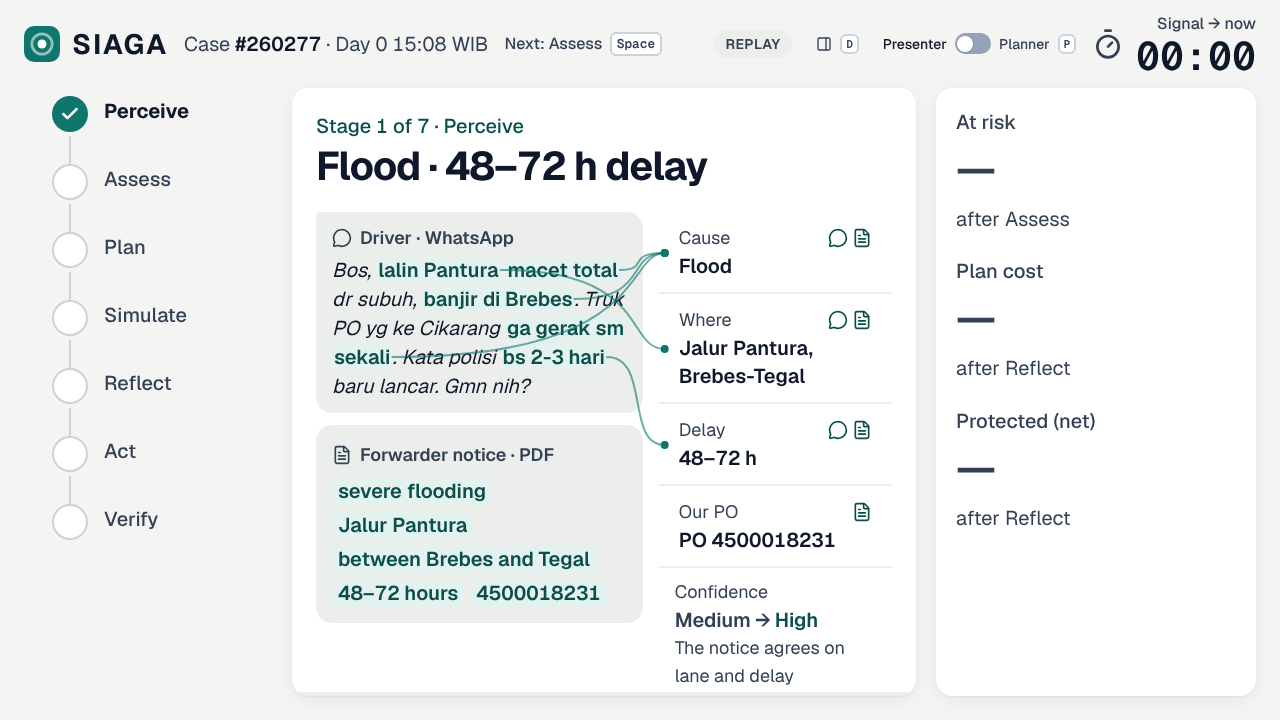
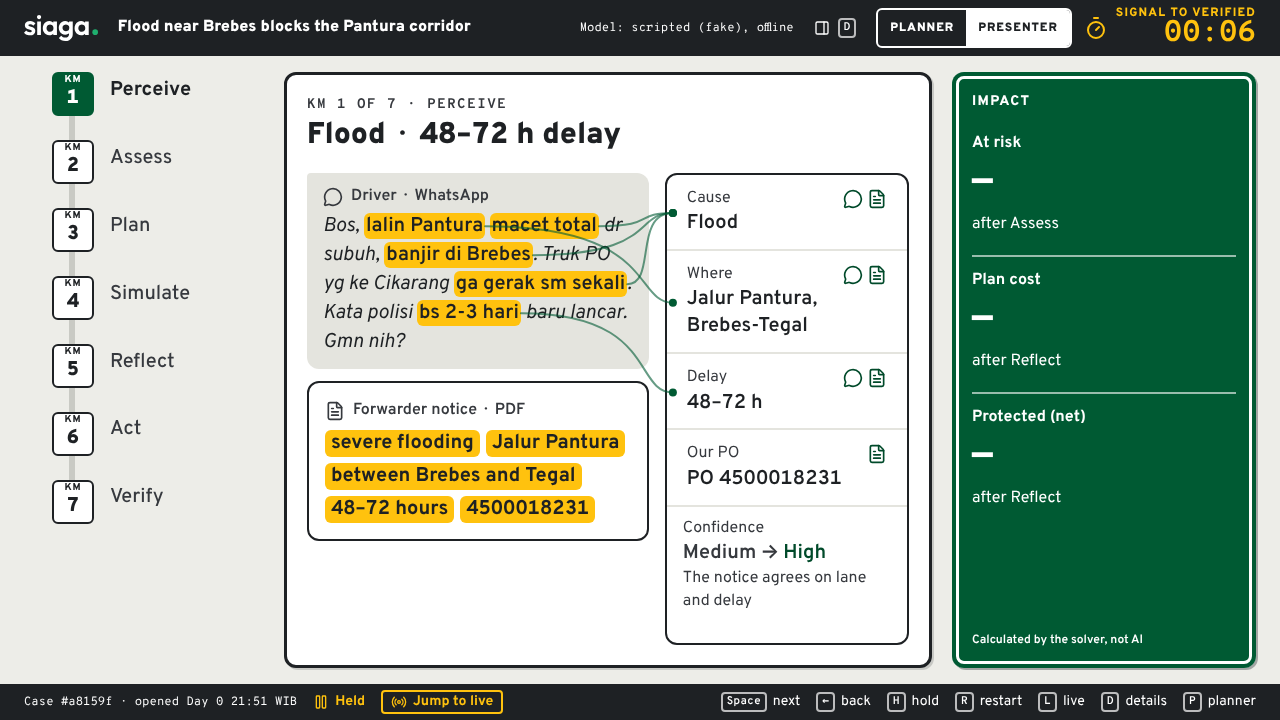
Redesign phase 5: verification fixes, screenshots and notes
- Reopened case: each route on the map is judged by its own SAP check (new 'failed'
  road state, 'Late or missing in SAP'), a red REOPENED plate in Presenter, and net
  protected struck through as not confirmed in the Planner margin.
- KM rail wraps below lg instead of scrolling the current stage out of view.
- Shared Badge and TierBadge drawn as sign plates; rule ids shown as words in the
  drawer's options table; no em dash in the delay chip.
- README screenshots retaken in the new design (adds the Planner inbox).
- docs/redesign-plan.md results and CLAUDE.md decisions for the Jalan Tol redesign.

Claude-Session: https://claude.ai/code/session_015iQfbkipDq6ErKJ21Y1cB6

diff --git a/web/lib/laneModel.ts b/web/lib/laneModel.ts
@@ -6,7 +6,7 @@ import { MAP_H, MAP_W, place, placeInText, type Anchor } from "./laneLayout";
 import { CAUSE, plantName, supplierName } from "./present";
 import type { CaseAction, CaseRecord, PlannedAction, SolverResult } from "./types";
 
-export type RoadState = "blocked" | "faded" | "candidate" | "chosen" | "pending" | "verified" | "rejected";
+export type RoadState = "blocked" | "faded" | "candidate" | "chosen" | "pending" | "verified" | "rejected" | "failed";
 export type PlateTone = "green" | "white" | "yellow" | "red" | "asphalt";
 
 export interface Plate {
@@ -75,6 +75,7 @@ export const LEGEND_TEXT: Record<RoadState, string> = {
   pending: "Route waiting for your approval",
   verified: "Route verified in SAP",
   rejected: "Rejected route",
+  failed: "Late or missing in SAP",
 };
 
 interface Base {
@@ -182,7 +183,8 @@ function route(record: CaseRecord, b: Base, key: string, i: number, state: RoadS
 } {
   const p = place(key, i + 2);
   const d = place(b.dest, 1);
-  const tone: PlateTone = state === "candidate" || state === "rejected" ? "white" : state === "pending" ? "yellow" : "green";
+  const tone: PlateTone =
+    state === "failed" ? "red" : state === "candidate" || state === "rejected" ? "white" : state === "pending" ? "yellow" : "green";
   // one plate per source keeps each in its own row at the Presenter canvas width
   const plates: Plate[] = [{ text: label ? `${name} · ${label}` : name, tone, icon: state === "verified" ? "check" : undefined }];
   return {
@@ -206,7 +208,7 @@ function dedupe(nodes: MapNode[]): MapNode[] {
 }
 
 function finish(title: string, nodes: MapNode[], roads: MapRoad[], badges: MapBadge[]): LaneModel {
-  const order: RoadState[] = ["blocked", "faded", "candidate", "chosen", "pending", "verified", "rejected"];
+  const order: RoadState[] = ["blocked", "faded", "candidate", "chosen", "pending", "verified", "failed", "rejected"];
   const legend = order.filter((s) => roads.some((r) => r.state === s));
   return { nodes: dedupe(nodes), roads, badges, legend, title };
 }
@@ -262,10 +264,22 @@ export function laneModel(record: CaseRecord, view: LaneView): LaneModel | null 
   const shown = record.actions.filter(
     (x: CaseAction) => x.kind !== "reschedule_customer" && (x.status === "EXECUTED" || x.status === "PENDING_APPROVAL"),
   );
+  // a re-opened case: each route is judged by its own SAP check
+  const held = (x: CaseAction) => record.verification?.checks.find((k) => k.ref === x.sap_ref)?.ok;
   const r = shown.map((x, i) => {
     const ref = x.planned?.reference ?? "";
     const state: RoadState =
-      x.status === "PENDING_APPROVAL" ? "pending" : resolved ? "verified" : reopened ? "rejected" : "chosen";
+      x.status === "PENDING_APPROVAL"
+        ? "pending"
+        : resolved
+          ? "verified"
+          : reopened
+            ? held(x) === false
+              ? "failed"
+              : held(x)
+                ? "verified"
+                : "chosen"
+            : "chosen";
     const label = `${x.kind === "spot_air" ? "" : `${VERB[x.kind] ?? x.kind} `}${thousands(x.quantity)} ctn`;
     return route(record, b, sourceKey(x.kind, ref), i, state, sourceName(record, x.kind, ref), label);
   });

diff --git a/web/components/planner/CaseFile.tsx b/web/components/planner/CaseFile.tsx
@@ -215,7 +215,7 @@ function KmRail({
   return (
     <nav aria-label="Route of the case" data-testid="timeline" className="min-w-0">
       <SignHeading className="mb-3">Route</SignHeading>
-      <ol className="flex gap-2 overflow-x-auto lg:flex-col lg:gap-0 lg:overflow-visible">
+      <ol className="flex flex-wrap gap-2 lg:flex-col lg:flex-nowrap lg:gap-0">
         {STAGES.map((stage, i) => {
           const info = stageInfo(stage, events, record, now);
           const post = postState(stage, info.state, events, record);
@@ -300,8 +300,15 @@ function Margin({
             <Row
               k="Net protected"
               v={juta(s.net_protected)}
-              exact={record.status === "RESOLVED" ? "verified in SAP" : "once the plan is verified"}
-              highlight
+              exact={
+                record.status === "RESOLVED"
+                  ? "verified in SAP"
+                  : record.status === "REOPENED"
+                    ? "not confirmed: verification failed"
+                    : "once the plan is verified"
+              }
+              highlight={record.status !== "REOPENED"}
+              struck={record.status === "REOPENED"}
             />
           </>
         ) : (
@@ -357,12 +364,28 @@ function Margin({
   );
 }
 
-function Row({ k, v, exact, highlight, testId }: { k: string; v: string; exact?: string | null; highlight?: boolean; testId?: string }) {
+function Row({
+  k,
+  v,
+  exact,
+  highlight,
+  struck,
+  testId,
+}: {
+  k: string;
+  v: string;
+  exact?: string | null;
+  highlight?: boolean;
+  struck?: boolean;
+  testId?: string;
+}) {
   return (
     <div className="border-b-2 border-white/60 py-2 last-of-type:border-0">
       <div className="flex items-baseline justify-between gap-3">
         <span className="text-base font-bold">{k}</span>
-        <span className={cn("text-2xl font-black whitespace-nowrap", highlight && "text-signal-yellow")}>{v}</span>
+        <span className={cn("text-2xl font-black whitespace-nowrap", highlight && "text-signal-yellow", struck && "line-through decoration-2")}>
+          {v}
+        </span>
       </div>
       {exact && (
         <div className="text-right font-mono text-xs">

diff --git a/web/components/presenter/canvases/Verify.tsx b/web/components/presenter/canvases/Verify.tsx
@@ -9,7 +9,7 @@ import type { CaseEvent, CaseRecord } from "@/lib/types";
 import { useNow } from "@/lib/useNow";
 import { LaneMap } from "@/components/LaneMap";
 import { laneModel } from "@/lib/laneModel";
-import { GantrySign } from "@/components/signs";
+import { GantrySign, StatusPlate } from "@/components/signs";
 import { Frame } from "./Frame";
 
 export function VerifyCanvas({ record, events, round }: { record: CaseRecord; events: CaseEvent[]; round: number }) {
@@ -41,6 +41,12 @@ export function VerifyCanvas({ record, events, round }: { record: CaseRecord; ev
       <div className="flex h-full flex-col gap-3">
         {laneModel(record, { kind: "verify" }) && (
           <LaneMap model={laneModel(record, { kind: "verify" })!} size="sm" className="mx-auto w-[88%]" />
+        )}
+        {failed && (
+          <div className="flex items-start gap-3 rounded-[12px] border-4 border-stop-red bg-road-white px-4 py-2.5" data-testid="reopened-plate">
+            <StatusPlate tone="rejected">Reopened</StatusPlate>
+            <p className="text-lg font-bold">SIAGA handed the case back: a planner needs to look at it. Everything done so far stays in SAP and in the audit trail.</p>
+          </div>
         )}
         {v && !verified && (
           <p className={failed ? "text-xl font-semibold text-risk-ink" : "text-xl text-ink"} data-testid="coverage">

diff --git a/web/components/ui.tsx b/web/components/ui.tsx
@@ -29,19 +29,19 @@ export function Panel({
 
 // Tone names kept for the callers; colours are the design tokens (status colours = status).
 const TONES = {
-  slate: "bg-surface-2 text-ink-2 ring-line",
-  sky: "bg-brand-soft text-brand-ink ring-brand/30",
-  emerald: "bg-ok-soft text-ok-ink ring-ok/40",
-  amber: "bg-human-soft text-human-ink ring-human/40",
-  red: "bg-risk-soft text-risk-ink ring-risk/40",
-  violet: "bg-surface-2 text-ink-2 ring-line",
+  slate: "bg-road-white text-asphalt ring-asphalt",
+  sky: "bg-road-white text-sign-green ring-sign-green",
+  emerald: "bg-sign-green text-white ring-sign-green",
+  amber: "bg-signal-yellow text-asphalt ring-asphalt",
+  red: "bg-stop-red text-white ring-stop-red",
+  violet: "bg-road-white text-asphalt ring-asphalt",
 } as const;
 export type Tone = keyof typeof TONES;
 
 export function Badge({ tone = "slate", children }: { tone?: Tone; children: ReactNode }) {
   return (
     <span
-      className={`inline-flex max-w-full items-center gap-1 rounded-full px-2 py-0.5 text-xs font-semibold ring-1 ring-inset ${TONES[tone]}`}
+      className={`inline-flex max-w-full items-center gap-1 rounded-[4px] px-1.5 py-0.5 text-xs font-extrabold tracking-[0.04em] ring-2 ring-inset ${TONES[tone]}`}
     >
       {children}
     </span>

diff --git a/web/e2e/demo.spec.ts b/web/e2e/demo.spec.ts
@@ -172,7 +172,7 @@ test("details drawer (D): step events, options + Critic, audit chain, case facts
   await expect(drawer).toBeVisible();
   await expect(drawer.getByTestId("drawer-step-events")).toContainText("Stock transfer");
   await drawer.getByTestId("drawer-tab-options").click();
-  await expect(drawer.getByTestId("option-B1")).toContainText("rejected: safety_stock");
+  await expect(drawer.getByTestId("option-B1")).toContainText("rejected: safety stock");
   await expect(drawer.getByTestId("drawer-critic")).toContainText("Bandung DC would drop to 50 cartons");
   await drawer.getByTestId("drawer-tab-audit").click();
   await expect(drawer.getByTestId("audit-status")).toContainText("hash chain verified");

diff --git a/web/components/OptionsTable.tsx b/web/components/OptionsTable.tsx
@@ -20,7 +20,7 @@ function outcome(o: SolverResult, record: CaseRecord) {
     return (
       <span className="flex flex-col items-start gap-1">
         <span className="whitespace-normal">
-          <Badge tone="red">rejected: {failed.map((c) => c.rule).join(", ")}</Badge>
+          <Badge tone="red">rejected: {failed.map((c) => c.rule.replaceAll("_", " ")).join(", ")}</Badge>
         </span>
         <span className="text-xs text-risk-ink">{failed.map((c) => c.plain || c.detail).join("; ")}</span>
       </span>

diff --git a/web/lib/present.ts b/web/lib/present.ts
@@ -150,7 +150,7 @@ export function delayChip(
   p: DelayPrediction | null | undefined,
 ): { hours: string | null; text: string; tone: "brand" | "human" | "muted" } | null {
   if (!p) return null;
-  if (p.status !== "ok") return { hours: null, text: "Prediction unavailable — using signal range", tone: "muted" };
+  if (p.status !== "ok") return { hours: null, text: "Prediction unavailable: using signal range", tone: "muted" };
   const rows = p.history_rows ?? 0;
   const source =
     p.provider === "fake"

diff --git a/web/components/LaneMap.tsx b/web/components/LaneMap.tsx
@@ -83,6 +83,13 @@ function Road({ road }: { road: MapRoad }) {
           <path {...common} stroke="var(--signal-yellow)" strokeWidth={8} strokeDasharray="14 8" strokeLinecap="butt" />
         </g>
       );
+    case "failed":
+      return (
+        <g>
+          <path {...common} stroke="var(--stop-red)" strokeWidth={13} />
+          <path {...common} stroke="#fff" strokeWidth={4} strokeDasharray="10 8" strokeLinecap="butt" />
+        </g>
+      );
     case "rejected":
       return (
         <g>

diff --git a/CLAUDE.md b/CLAUDE.md
@@ -32,6 +32,7 @@ and the decisions made. **Update it every phase.**
 | WhatsApp via Twilio (owner 28 Oct) | built behind `WHATSAPP_PROVIDER=twilio`: sandbox webhook + replies, no Meta app (`scripts/fill-twilio.sh`); tested with signed form posts and a stand-in Twilio API; **not yet tried with a real Twilio account** |
 | Env + secrets setup (`SIAGA_env_setup_prompt.md`) | sections 1–6 built and tested locally (leak check clean); **checkpoint**: owner runs `fill-env.sh`, `put-sap-secret.sh`, `make use-aws`, `make preflight`. Preflight lines 4–8 cannot pass until Phase 7 is deployed |
 | UI redesign (`SIAGA_ui_redesign_prompt.md`) | step 1 audit (`docs/ui-redesign-audit.md`), backend additions A–G, step 2 visual system + Presenter shell, step 3 stage canvases, step 4 wow moments + pacing, steps 1–6 done (projector check passes; `make rehearse N=10` 10/10 on fake and replay) |
+| "Jalan Tol" redesign (`docs/redesign-prompt.md`, 28 Oct) | phases 0–5 done (`docs/redesign-plan.md`): toll-road sign system, lane map, Planner inbox + case file, Presenter on the same components; skipped: audit filters, a new Plan layout |
 
 ## How to run
 
@@ -156,7 +157,7 @@ make web-smoke               # Playwright: full demo + reject path on a producti
                              # with its own API/ports; screenshots in web/e2e/screenshots/
 ```
 
-Screenshots of the redesigned dashboard (replay of the fake-LLM golden run): `docs/screenshots/`, shown in README.md.
+Screenshots of the Jalan Tol dashboard (scripted fake-LLM case): `docs/screenshots/`, shown in README.md.
 
 Dashboard modes (UI redesign): **Presenter** (default, projector) and **Planner** (dense view).
 Toggle with `P` or the header switch; `?mode=planner|presenter` overrides (the choice is
@@ -765,6 +766,54 @@ additive (no field removed).
   - Results: pytest 158 passed (1 live-Bedrock skipped); web smoke 8/8 (fake) and 7/7
     (replay); `make rehearse N=10` 10/10 on the fake LLM and 10/10 on replay;
     `make rehearse-fault N=3` 3/3.
+
+### "Jalan Tol" redesign (owner's brief `docs/redesign-prompt.md`, 28 Oct)
+
+Plan, data check, selector changes and results: `docs/redesign-plan.md`. Front end only; no
+backend change. It supersedes the colours and font of the UI redesign above (pacing, wow
+moments, drawer, error states and the washout check stay).
+
+- **Tokens** (`web/app/globals.css`): concrete, road-white, asphalt, curb, sign-green,
+  signal-yellow, stop-red, brand-teal, sea, land. Three brief values are darkened to pass
+  the washout check: asphalt-muted #36393E, sign-green #005A33, stop-red #B00D28. The old
+  token names (`brand`, `risk`, `human`, `ok`, `ink`…) map onto the new palette, so older
+  components follow. Yellow always carries asphalt text.
+- **Fonts:** Overpass and Overpass Mono, bundled in `web/app/fonts/` (OFL,
+  `@fontsource-variable` 5.3.0) via `next/font/local`; no download at build or run time.
+  The bundled Overpass subset has a zero-width middle dot, so U+00B7 comes from Overpass Mono
+  through a `unicode-range` face ("Overpass Dot").
+- **Logo:** `web/public/brand/siaga-wordmark-white.svg` on asphalt in every header (only the
+  white file was supplied).
+- **Sign components** (`components/signs.tsx`): GantrySign, RouteShield, WarningPlate,
+  StatusPlate, KmPost, RoadLine, LaneDivider, TierPlate, AgentWritten ("Written by the
+  agent"), SolverLabel.
+- **Lane map** (`components/LaneMap.tsx`, `lib/laneModel.ts`, `lib/laneLayout.ts`):
+  schematic SVG roads with HTML sign plates; positions come from a layout config keyed by
+  SAP location code (no coordinates in the data), with an automatic slot for unknown codes.
+  Road states: blocked (hatched), faded, candidate, chosen, pending (yellow dashes),
+  verified, rejected, failed (late or missing in SAP, judged per action from
+  `verification.checks`). Legend strip under the map; the roads in words for screen
+  readers; a mini variant on the Simulate cards; scrolls inside its frame below 768 px.
+  Gallery: `/design/map` (fixtures in `app/design/fixtures.json`).
+- **Planner** (`components/PlannerView.tsx`, `components/planner/`): Inbox / Cases / Audit
+  trail. The inbox is built from `GET /cases` + `GET /cases/{id}` (max 25, every 2 s,
+  `lib/useInbox.ts`), grouped Needs you (sorted by approve-by) / Reopened / Escalated /
+  Running / Resolved. The case file shows one stage sheet at a time: it follows the case
+  until the planner picks a KM post; approving pins it to Act. Margin: impact sign with
+  exact rupiah, Critic plate, confidence, audit chain.
+- **Approval sign** (`components/ApprovalSign.tsx`, both modes): pending yellow plate with
+  countdown + approve-by, what, cost, if rejected, why (agent summary labelled), other
+  options, the binding note; approved = green sign with the SAP document; rejected or
+  expired = white with a red border. Test ids per mode (`approve` / `presenter-approve`…).
+- **Presenter:** asphalt header (logo, case title, model label, yellow "Signal to verified"
+  clock), KM-post rail, impact gantry sign, asphalt footer with the keys and the pacing
+  hints (held, jump to live, next). Every step fits 1280×720.
+- **e2e changes:** the Planner tests click the KM post of the stage they check; the reject
+  path opens the reason with `reject-open`; case status is read from `data-status`; rule
+  ids show as words ("rejected: safety stock").
+- Results: pytest 305 passed (2 skipped); web smoke 9/9 (+4 skipped), replay 8/8 (+4),
+  multi 10/10 (+3), WhatsApp in + reply 11/11 (+2), AWS stand-in 10/10 (+3); rehearse 3/3,
+  rehearse-fault 1/1; replay with the network cut 1/1 and its smoke 8/8.
 
 ### Native Windows support
 

diff --git a/docs/redesign-plan.md b/docs/redesign-plan.md
@@ -77,3 +77,42 @@ needs is added to the tests; the assertions stay the same.
 
 Tokens, sign components, lane map, Assess, Act with the approval sign, Verify, Presenter.
 May be skipped: Simulate mini maps, audit filters, the Plan stage restyle.
+
+## 8. Results (Phase 5, 28 Oct)
+
+**Built**
+
+- Tokens, Overpass + Overpass Mono (bundled), type scale, white logo in every header, and
+  the sign components (`components/signs.tsx`).
+- `LaneMap` with every road state (plus `failed`: a route that did not hold in SAP), the
+  layout config (`lib/laneLayout.ts`), a text alternative, a legend strip and the mini
+  variant. Gallery: `/design/map`.
+- Planner: asphalt header with nav, inbox grouped by what each case needs, case file
+  (case sign, KM rail, one stage sheet per stage, margin), the approval sign in all its
+  states (shared with Presenter), audit table.
+- Presenter rebuilt on the same pieces: asphalt header with the yellow clock, KM-post rail,
+  impact gantry sign, key footer. Pacing, keys and every Presenter test id are unchanged.
+- Reopened path: red plate with its reason in both modes, the late route in red on the
+  map, net protected struck through as "not confirmed".
+
+**Skipped (allowed by the owner's priority list)**
+
+- Audit trail filters. The audit table has the new columns but no filters.
+- Plan stage: restyled through the shared tokens and cards only, no new layout.
+- (Simulate mini maps were built.)
+
+**Checks**
+
+- `make test`: 305 passed, 2 skipped.
+- `make web-smoke`: 9 passed (+4 skipped); `SMOKE_LLM=replay`: 8 passed (+4);
+  multi + fake delay model + PII: 10 passed (+3); `WHATSAPP_INBOUND=1 WHATSAPP_NOTIFY=1`
+  against a Graph stand-in: 11 passed (+2); `SMOKE_AWS=1`: 10 passed (+3).
+  The projector washout check runs in every one of them and passes.
+- `make rehearse N=3`: 3/3 (fake LLM). `make rehearse-fault N=1`: 1/1.
+- Replay with the network cut (proxy pointed at a dead port, AWS variables unset):
+  `rehearse -n 1 --local` 1/1 and the replay smoke 8 passed (+4).
+- Screenshots of every stage in both modes at 1280×720 and 1440×900 reviewed. Fixed from
+  the review: Assess and Verify overflow at 1280×720, the approval sign overflowing its
+  column, the header title truncation, a zero-width middle dot in the bundled Overpass
+  subset (now drawn from Overpass Mono), table wrapping, the KM rail hiding stages below
+  `lg` (it wraps now), the reopened map painting the confirmed PO red.

diff --git a/README.md b/README.md
@@ -16,7 +16,7 @@ No make or bash (e.g. Windows without WSL): `uv sync`, `cd web && npm ci`, then
 
 ## Screenshots
 
-Presenter mode (projector, 1280×720), one stage at a time, from the replay of the demo case:
+"Jalan Tol" design (Indonesian toll-road signs). Presenter mode (projector, 1280×720), one stage at a time, from the scripted demo case:
 
 | | |
 | --- | --- |
@@ -26,7 +26,8 @@ Presenter mode (projector, 1280×720), one stage at a time, from the replay of t
 
 | | |
 | --- | --- |
-| ![Drawer](docs/screenshots/7-details-drawer.png) Details drawer (`D`): solver table, Critic checks, audit trail | ![Planner](docs/screenshots/8-planner-mode.png) Planner mode (`P`): the dense view for Q&A |
-| ![States](docs/screenshots/9-error-states.png) Error and guard-rail states (`/design/states`) | ![Projector check](docs/screenshots/10-projector-check-washed.png) Projector check: the same screen at 30% less contrast |
+| ![Drawer](docs/screenshots/7-details-drawer.png) Details drawer (`D`): solver table, Critic checks, audit trail | ![Planner](docs/screenshots/8-planner-mode.png) Planner mode (`P`): the case file with the KM rail, one stage sheet and the margin |
+| ![Inbox](docs/screenshots/11-planner-inbox.png) Planner inbox: cases grouped by what they need, approve-by countdown | ![Projector check](docs/screenshots/10-projector-check-washed.png) Projector check: the same screen at 30% less contrast |
+| ![States](docs/screenshots/9-error-states.png) Error and guard-rail states (`/design/states`) | |
 
 The golden run in the screenshots is the placeholder recording from the scripted (fake) LLM; see CLAUDE.md, Open items.
